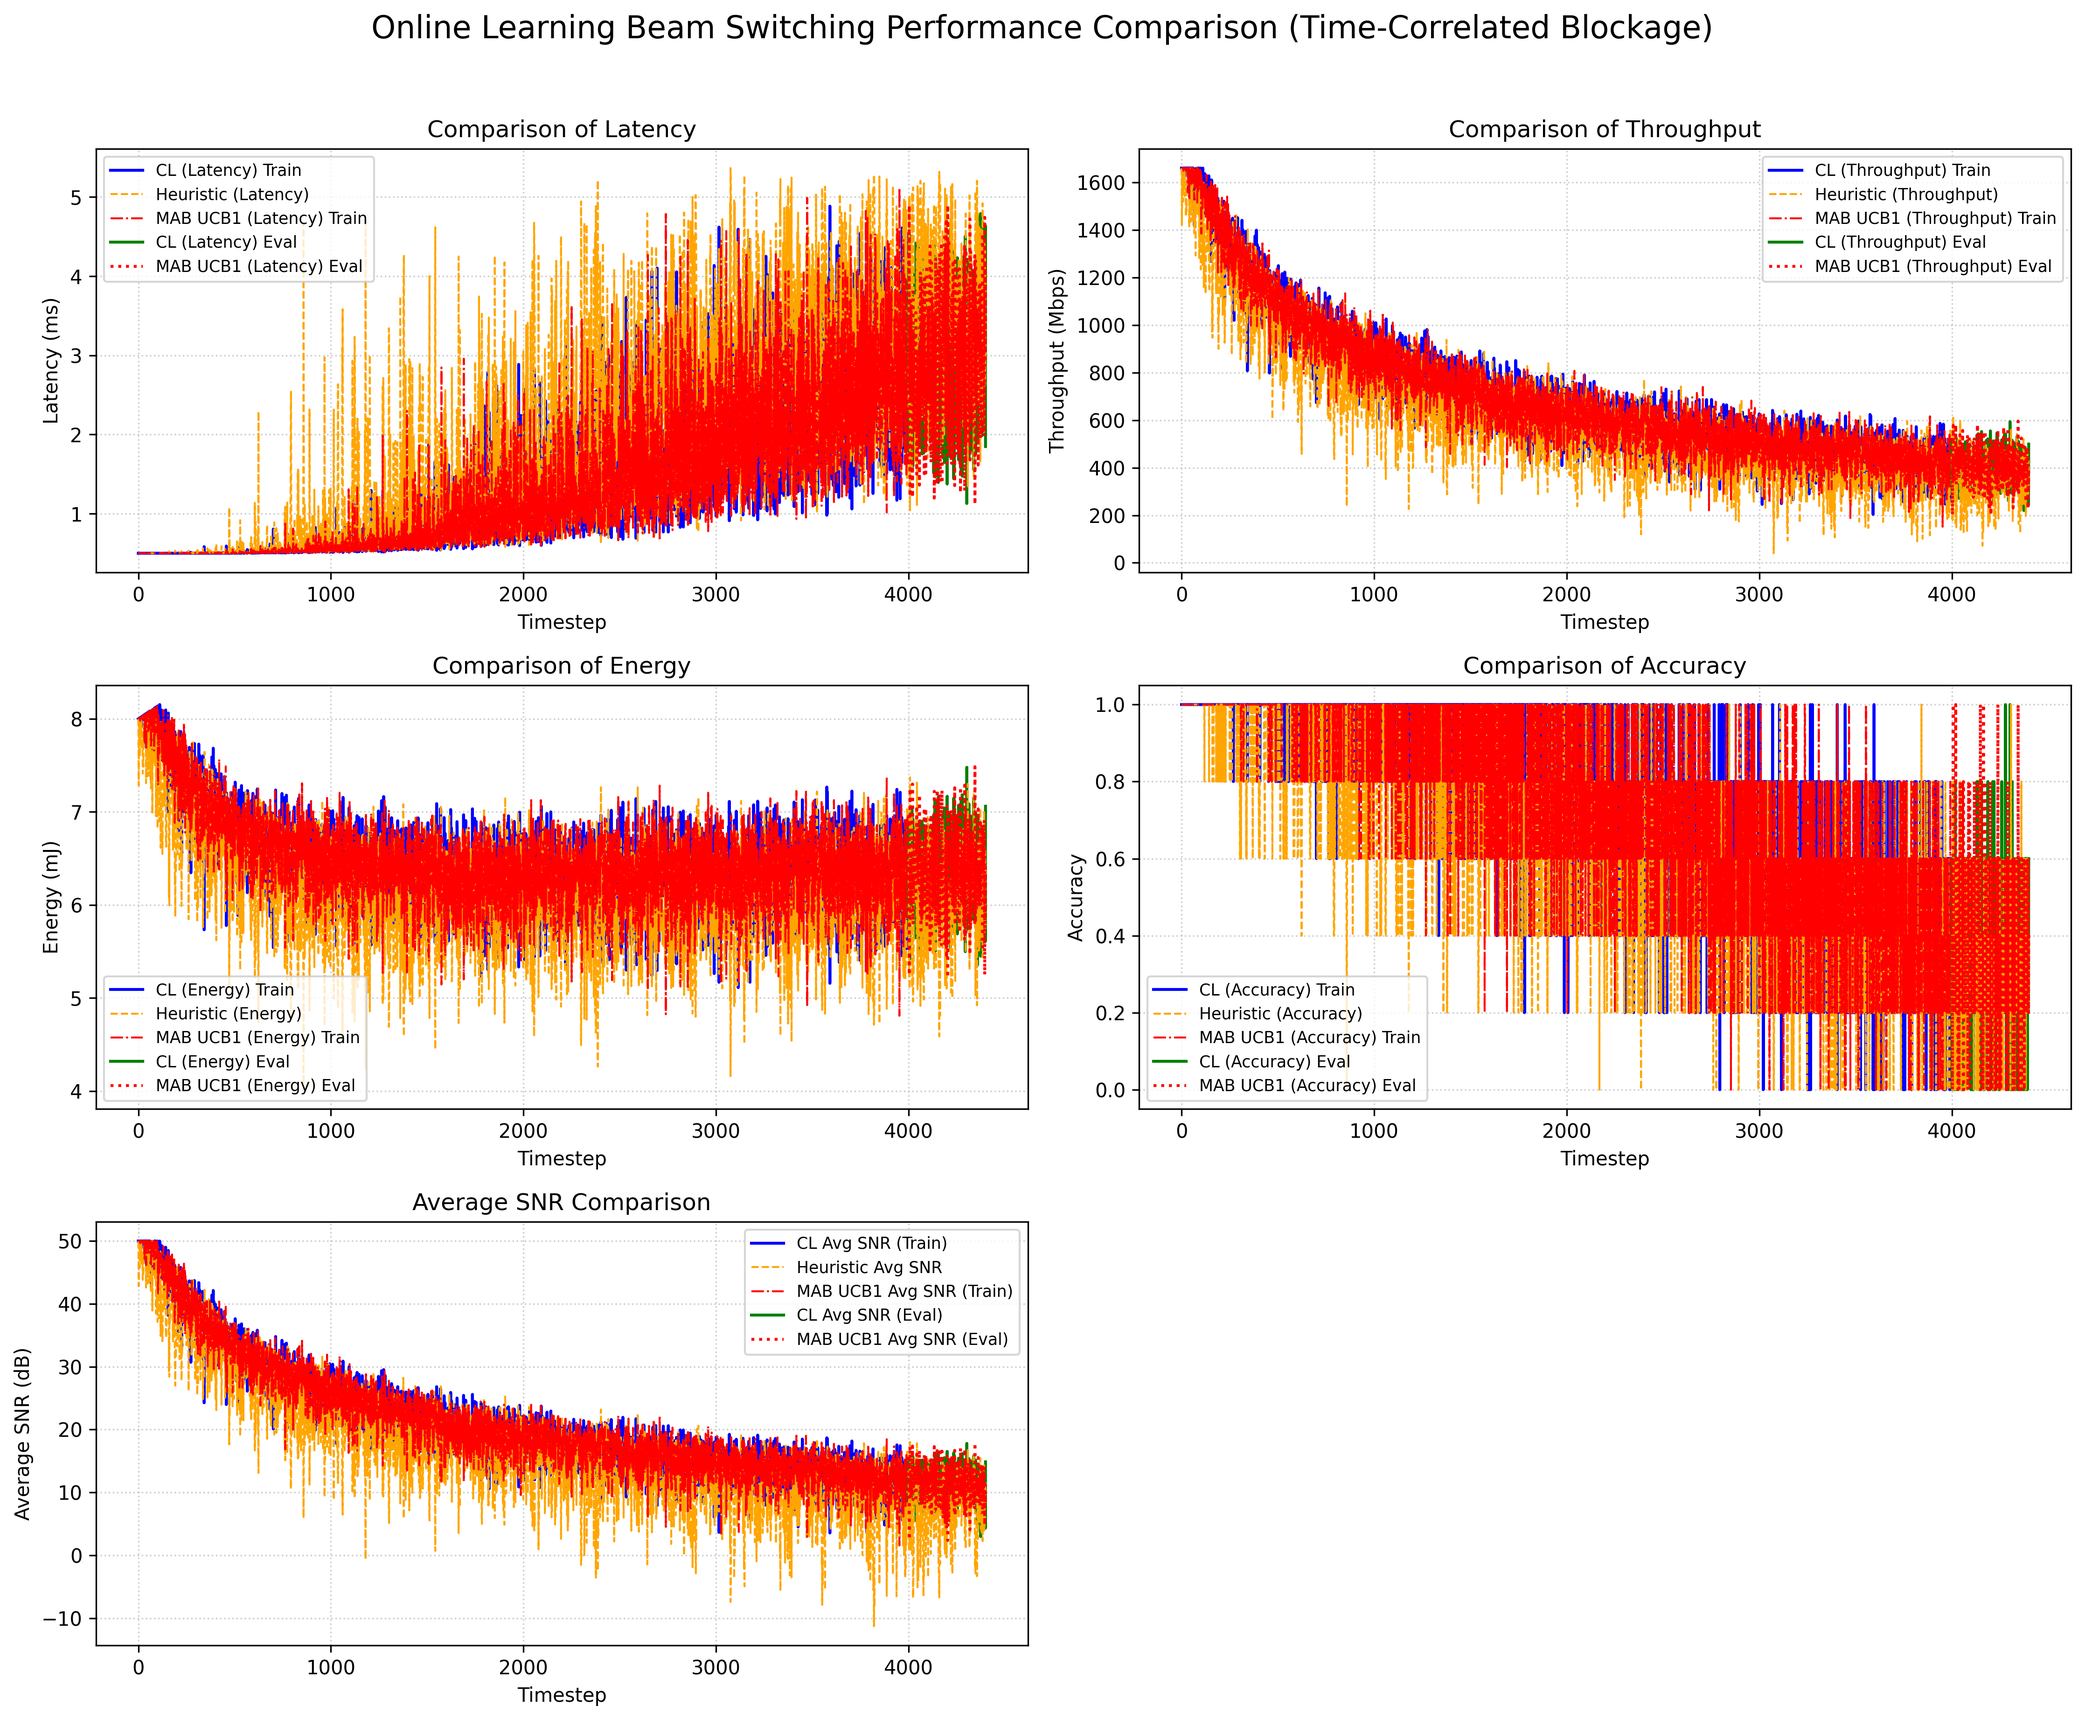
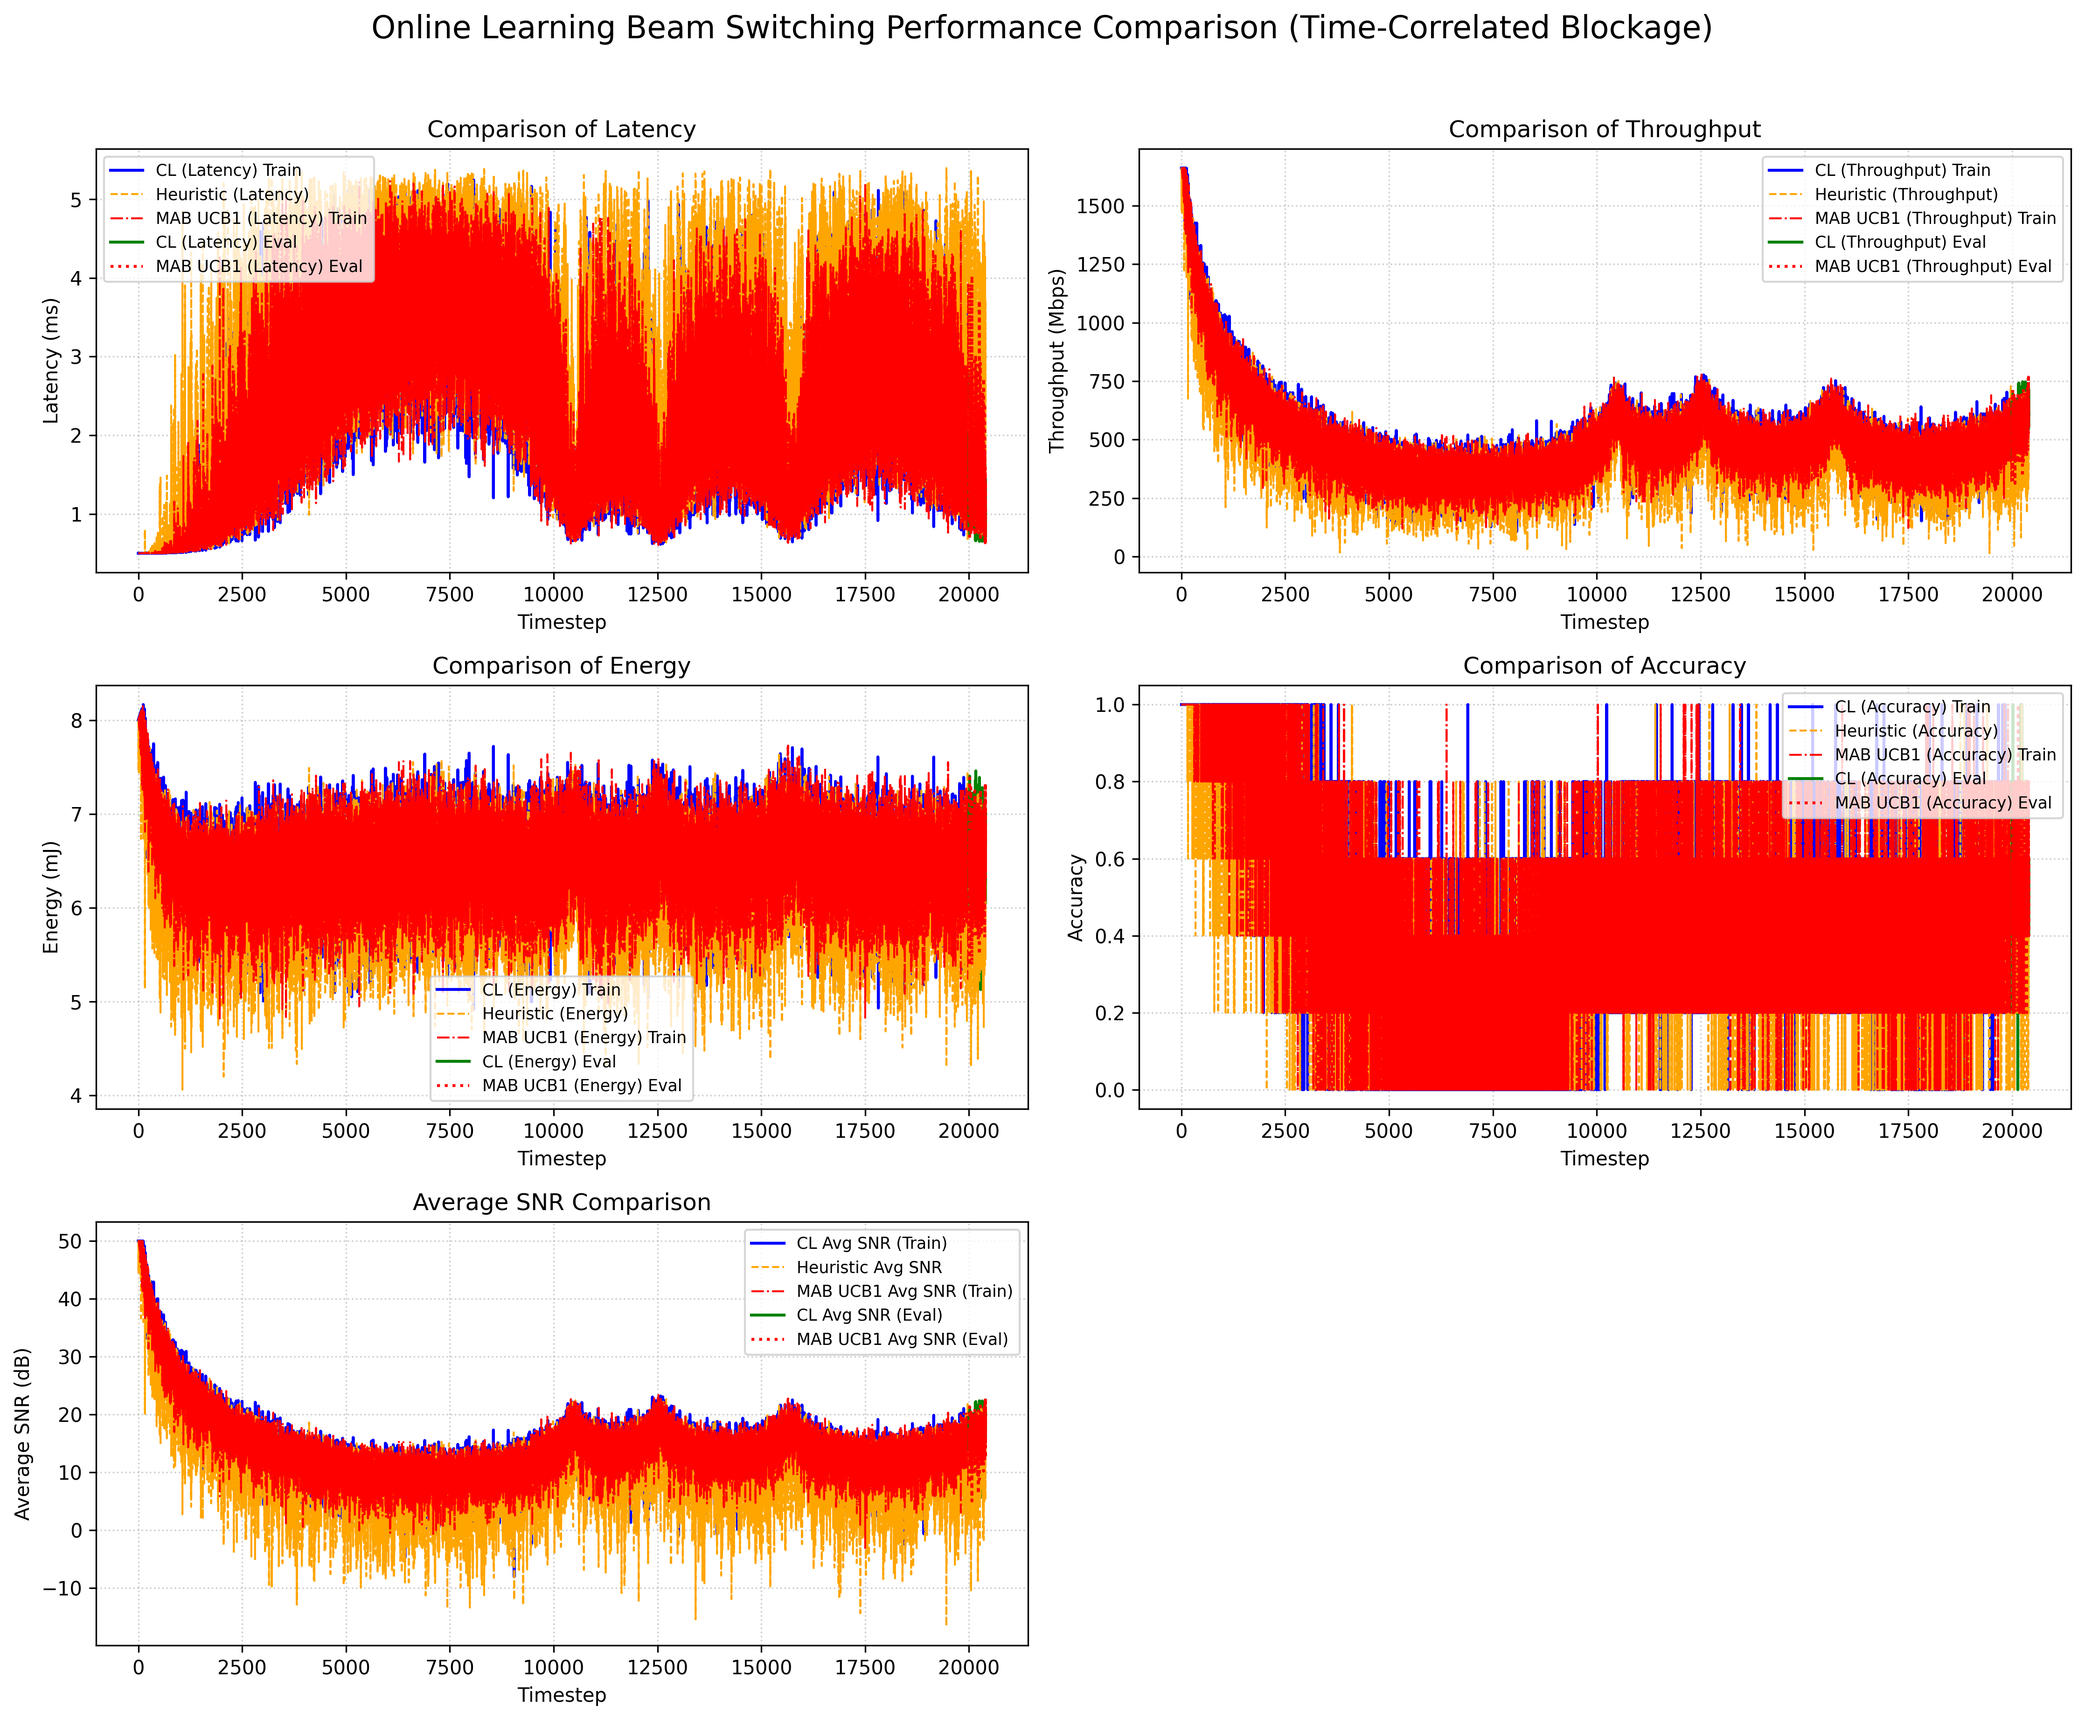
Update training results and metrics; adjust blockage probabilities and improve logging

diff --git a/main.py b/main.py
@@ -1,15 +1,3 @@
-"""
-This script simulates a Online Learning (OL)-based adaptive beam switching framework 
-for 6G networks, designed for paper acceptance. It models a 500m urban road with a base 
-station (BS) at the center, equipped with 64 antennas operating at 28 GHz, serving 5 mobile 
-user equipments (UEs) moving at 20-60 km/h. Using Sionna for Rayleigh Fading channel modeling 
-with path loss and PyTorch for a deep Q-learning model with a replay buffer and target network, 
-the framework optimizes beam directions for each UE in real-time. The reward function balances 
-throughput, SNR stability, and energy efficiency with optimized weights, and a realistic baseline 
-(heuristic beam selection) is added for comparison. The state representation includes angles, 
-SNR, and normalized distances, with training set to 4000 timesteps for optimal learning.
-"""
-
 import os
 import torch
 import torch.nn as nn
@@ -73,12 +61,9 @@ PATH_LOSS_EXPONENT = 2.5
 MAB_EXPLORATION_FACTOR = 2.0
 
 # --- Time-Correlated Blockage Model Parameters ---
-# BLOCKAGE_PROBABILITY = 0.10 # Removed
 BLOCKAGE_ATTENUATION_DB = 25.0 # Keep attenuation level
-P_BB = 0.70 # Probability Blocked -> Blocked (70%)
-P_UB = 0.05 # Probability Unblocked -> Blocked (5%)
-# Implied: P_BU = 1 - P_BB = 0.30 (Prob Blocked -> Unblocked)
-# Implied: P_UU = 1 - P_UB = 0.95 (Prob Unblocked -> Unblocked)
+P_BB = 0.85 # Probability Blocked -> Blocked (Increased from 0.70)
+P_UB = 0.03 # Probability Unblocked -> Blocked (Decreased from 0.05)
 # ---------------------------------------------
 
 BANDWIDTH = 100e6
@@ -278,7 +263,8 @@ def mab_ucb1_action(ue_idx, t, mab_counts, mab_values, exploration_factor=2.0):
     total_counts_ue = np.sum(mab_counts[ue_idx, :]); ucb_values = np.zeros(NUM_BEAMS)
     for beam_idx in range(NUM_BEAMS):
          count = mab_counts[ue_idx, beam_idx]; mean_reward = mab_values[ue_idx, beam_idx] / count
-         exploration_bonus = np.sqrt(exploration_factor * np.log(max(1, total_counts_ue)) / count)
+         # Add epsilon to count in denominator to prevent division by zero if count is somehow still 0
+         exploration_bonus = np.sqrt(exploration_factor * np.log(max(1, total_counts_ue)) / (count + mab_epsilon))
          ucb_values[beam_idx] = mean_reward + exploration_bonus
     return np.argmax(ucb_values)
 
@@ -304,7 +290,7 @@ snr_log_cl = []; snr_log_angle_heuristic = []; snr_log_mab_ucb = []
 epsilon = 1.0
 prev_snr_cl = np.zeros(NUM_UES)
 # --- Initialize blockage state ---
-prev_is_blocked = np.zeros(NUM_UES, dtype=bool)
+prev_is_blocked = np.zeros(NUM_UES, dtype=bool) # Blockage state from previous step
 # ---------------------------------
 initial_positions = update_positions(0)
 initial_h_channel = generate_channel(initial_positions)
@@ -392,7 +378,7 @@ for t in range(NUM_TIMESTEPS):
     prev_snr_cl = snr_cl.copy()
 
     # --- Update Blockage State for Next Timestep ---
-    prev_is_blocked = current_is_blocked.copy()
+    prev_is_blocked = current_is_blocked.copy() # Store current blockage for next step's calculation
     # ---------------------------------------------
 
     # Train DQL Network
@@ -416,7 +402,7 @@ results_mab_ucb_eval = {"latency": [], "throughput": [], "energy": [], "accuracy
 snr_log_cl_eval = []; snr_log_angle_heuristic_eval = []; snr_log_mab_ucb_eval = []
 prev_snr_cl_eval = prev_snr_cl.copy()
 # --- Re-initialize blockage state for evaluation ---
-prev_is_blocked_eval = np.zeros(NUM_UES, dtype=bool)
+prev_is_blocked_eval = np.zeros(NUM_UES, dtype=bool) # Start evaluation with no blockage history
 # -------------------------------------------------
 
 for t_eval in range(EVAL_TIMESTEPS):
@@ -483,7 +469,7 @@ for t_eval in range(EVAL_TIMESTEPS):
     snr_log_cl_eval.append(avg_snr_cl)
 
     # --- Update Blockage State for Next Eval Timestep ---
-    prev_is_blocked_eval = current_is_blocked_eval.copy()
+    prev_is_blocked_eval = current_is_blocked_eval.copy() # Update eval blockage state
     # --------------------------------------------------
     prev_snr_cl_eval = snr_cl.copy()
 
